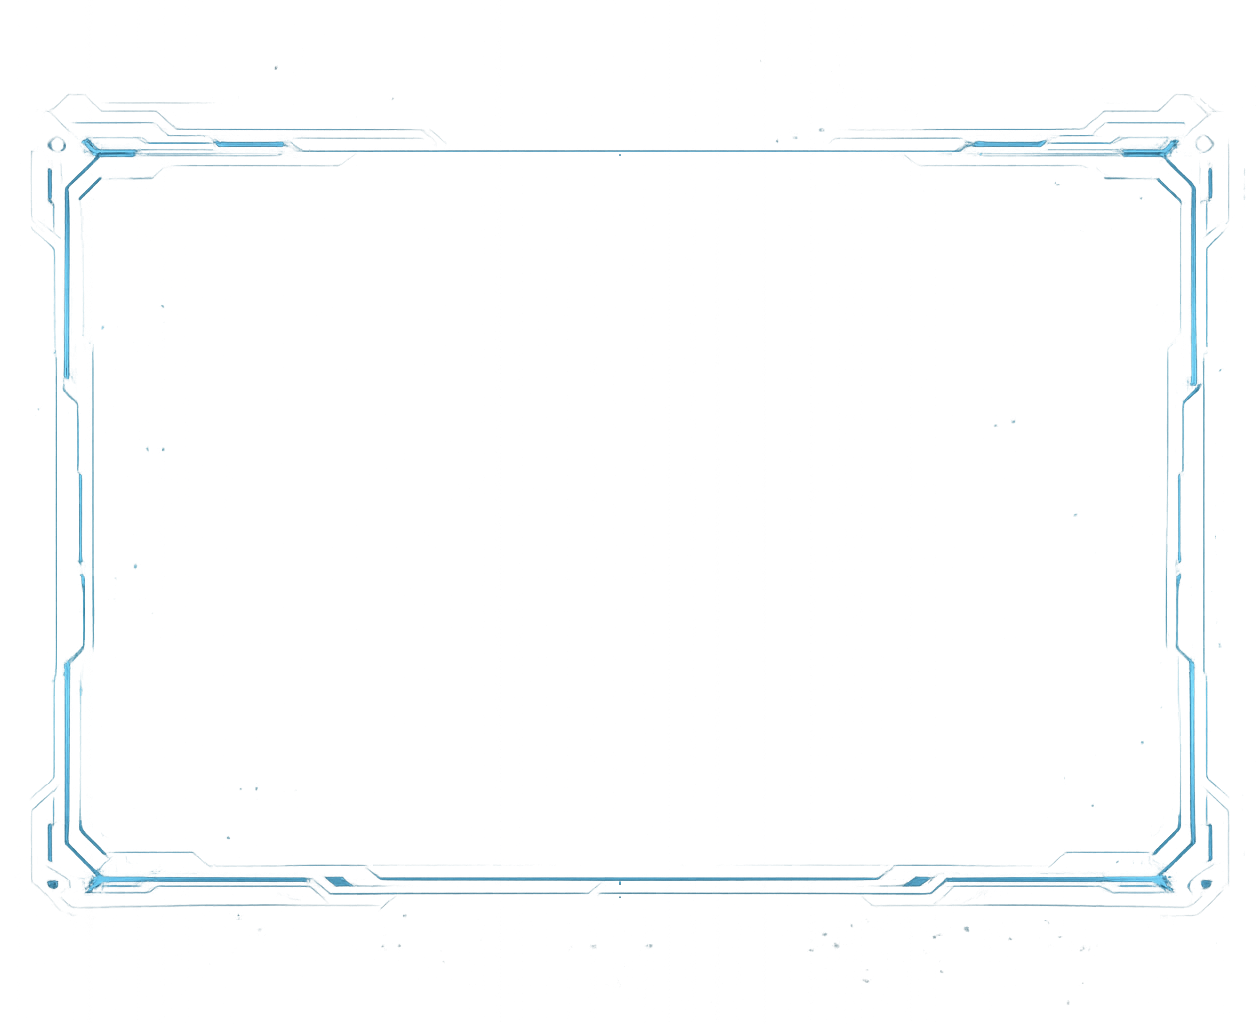
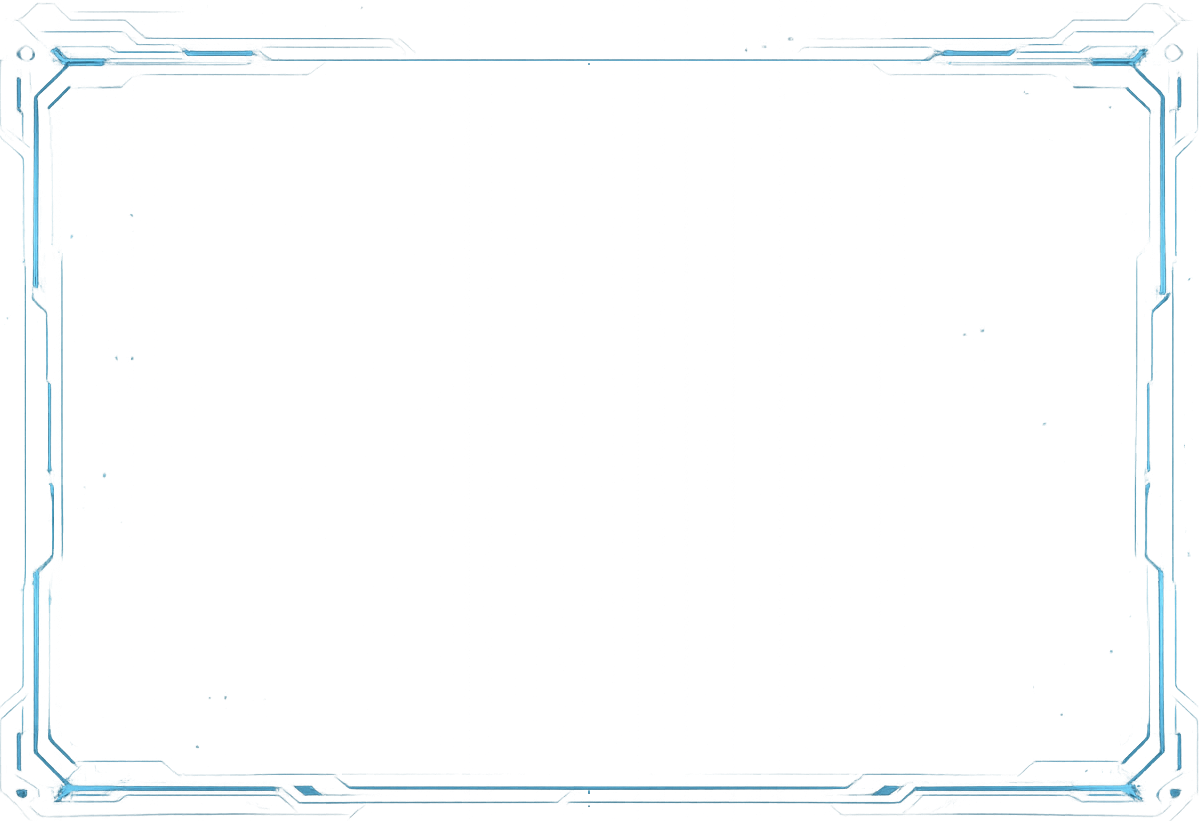
兼容性优化

Changed region(s): [[0.0, 0.0, 0.9858, 1.0]]

diff --git a/packages/client/src/index.css b/packages/client/src/index.css
@@ -175,6 +175,7 @@ body {
     max-width: 100%;
     flex: none;
     align-self: center;
+    padding: 3.5rem 3.2rem;
     background-position: center;
     background-repeat: no-repeat;
     background-size: 100% 100%;
@@ -186,15 +187,104 @@ body {
     display: none;
   }
 
+  .map-overview {
+    aspect-ratio: 16 / 9;
+  }
+
+  .view-switch-control {
+    display: flex;
+    overflow: hidden;
+    border: 1px solid rgb(103 232 249 / 0.28);
+    border-radius: 0.375rem;
+    background: rgb(2 6 23 / 0.42);
+    font-size: 0.6875rem;
+    line-height: 1rem;
+  }
+
+  .view-switch-control button {
+    padding: 0.25rem 0.5rem;
+    color: rgb(203 213 225);
+    transition:
+      background 160ms ease,
+      color 160ms ease;
+  }
+
+  .view-switch-control button + button {
+    border-left: 1px solid rgb(103 232 249 / 0.18);
+  }
+
+  .view-switch-control button:hover,
+  .view-switch-control button.is-active {
+    background: rgb(14 165 233 / 0.24);
+    color: rgb(224 242 254);
+  }
+
+  .main-camera-view > .w-full {
+    position: relative;
+    height: 100%;
+  }
+
+  .main-camera-view > .w-full > .relative {
+    height: 100%;
+    background: rgb(15 23 42 / 0.76);
+    box-shadow: none;
+  }
+
   .main-camera-view video {
-    max-height: calc(100vh - 340px);
-    min-height: 360px;
+    height: 100%;
+    min-height: 0;
+    max-height: none;
+    object-fit: contain;
+  }
+
+  .main-camera-view video.bg-black,
+  .main-camera-view .bg-black {
+    background-color: rgb(15 23 42 / 0.76);
+  }
+
+  .main-camera-view .bg-gradient-to-br {
+    background-image: none;
+    background-color: rgb(15 23 42 / 0.76);
+  }
+
+  .main-camera-view .grid.grid-cols-4 {
+    position: absolute;
+    left: 1.25rem;
+    top: 50%;
+    z-index: 20;
+    display: flex;
+    width: auto;
+    transform: translateY(-50%);
+    flex-direction: column;
+    gap: 0.5rem;
+  }
+
+  .main-camera-view .grid.grid-cols-4 button {
+    width: 2.5rem;
+    height: 2.5rem;
+    border-color: rgb(103 232 249 / 0.38);
+    background: rgb(2 6 23 / 0.58);
+    color: rgb(224 242 254);
+    box-shadow: 0 0 12px rgb(14 165 233 / 0.10);
+    backdrop-filter: blur(3px);
+  }
+
+  .main-camera-view .grid.grid-cols-4 button:hover {
+    background: rgb(14 165 233 / 0.18);
+  }
+
+  .motion-control {
+    display: flex;
+    height: 100%;
+    align-items: center;
+    justify-content: center;
   }
 
   .motion-pad {
     position: relative;
     width: 146px;
     height: 146px;
+    margin: 0 auto;
     border-radius: 9999px;
     border: 1px solid rgb(56 189 248 / 0.22);
     background:
@@ -247,21 +337,25 @@ body {
 
   .motion-pad-up {
     left: 49px;
-    top: 13px;
+    top: 5px;
   }
 
   .motion-pad-left {
-    left: 13px;
+    left: 0px;
     top: 54px;
+    flex-direction: column;
+    gap: 4px;
   }
 
   .motion-pad-right {
-    right: 13px;
+    right: 0px;
     top: 54px;
+    flex-direction: column;
+    gap: 4px;
   }
 
   .motion-pad-down {
-    bottom: 13px;
+    bottom: 5px;
     left: 49px;
   }
 

diff --git a/packages/client/src/App.tsx b/packages/client/src/App.tsx
@@ -917,13 +917,8 @@ function AppContent() {
           </aside>
 
           <main className="flex min-h-0 flex-col gap-3">
-            <div className="map-frame relative min-h-0 overflow-hidden p-6" style={{ backgroundImage: 'url(' + borderImage + ')' }}>
+            <div className="map-frame relative min-h-0 overflow-hidden" style={{ backgroundImage: 'url(' + borderImage + ')' }}>
               {showDebug && <DebugPanel />}
-              <div className="absolute right-8 top-8 z-30 flex overflow-hidden rounded-md border border-cyan-300/30 bg-slate-950/58 text-xs backdrop-blur-[3px]">
-                <button type="button" onClick={() => setMainViewport('map')} className={['px-3 py-1.5 transition', mainViewport === 'map' ? 'bg-cyan-500/24 text-cyan-100' : 'text-slate-300 hover:bg-cyan-500/12'].join(' ')}>地图</button>
-                <button type="button" onClick={() => setMainViewport('camera')} className={['border-l border-cyan-300/20 px-3 py-1.5 transition', mainViewport === 'camera' ? 'bg-cyan-500/24 text-cyan-100' : 'text-slate-300 hover:bg-cyan-500/12'].join(' ')}>摄像实况</button>
-              </div>
-
               {mainViewport === 'map' ? (
                 <div className="relative z-10 h-full overflow-hidden rounded-lg bg-slate-950/26">
                   <MapCanvas ros={ros} isConnected={isConnected} navClickMode={navClickMode} setNavClickMode={setNavClickMode} selectedMap={selectedMap} navigationTaskMode={navigationTaskMode} navigationPoints={patrolPoints} pathResetToken={navigationTasks.pathResetToken + mapSelectionResetToken} onGoalPoseSelected={(pose) => void handleSingleGoalSelected(pose)} onWaypointAdded={addPatrolPoint} />
@@ -938,7 +933,7 @@ function AppContent() {
             </div>
 
             <div className="grid h-56 grid-cols-3 gap-3">
-              <TechPanel title="移动控制"><div className="flex items-center justify-center"><div className="motion-pad"><button className="motion-pad-button motion-pad-up"><span>前进</span><b>▲</b></button><button className="motion-pad-button motion-pad-left"><b>◀</b><span>左转</span></button><button className="motion-pad-center"><span>□</span></button><button className="motion-pad-button motion-pad-right"><span>右转</span><b>▶</b></button><button className="motion-pad-button motion-pad-down"><b>▼</b><span>后退</span></button></div></div></TechPanel>
+              <TechPanel title="移动控制"><div className="motion-control"><div className="motion-pad"><button className="motion-pad-button motion-pad-up"><span>前进</span><b>▲</b></button><button className="motion-pad-button motion-pad-left"><b>◀</b><span>左转</span></button><button className="motion-pad-center"><span>▣</span></button><button className="motion-pad-button motion-pad-right"><b>▶</b><span>右转</span></button><button className="motion-pad-button motion-pad-down"><b>▼</b><span>后退</span></button></div></div></TechPanel>
               <TechPanel title="姿态控制"><div className="grid grid-cols-3 gap-3">{['X+', 'Y+', 'Yaw+', 'X-', 'Y-', 'Yaw-'].map((label) => (<button key={label} className="h-14 rounded-md border border-cyan-400/25 bg-slate-950/70 text-sm font-semibold text-yellow-300 hover:bg-cyan-500/10">{label}</button>))}</div></TechPanel>
               <TechPanel title="语音广播"><div className="space-y-3"><div className="rounded-md border border-cyan-400/20 bg-slate-950/65 px-3 py-2 text-sm text-slate-500">在此输入广播内容...</div><div className="broadcast-waveform flex h-10 items-center gap-1">{Array.from({ length: 44 }).map((_, index) => (<span key={index} className="rounded-full bg-cyan-400" style={{ height: 6 + ((index * 11 + index * index) % 30) + 'px', opacity: 0.55 + ((index % 5) * 0.09) }} />))}</div><div className="grid grid-cols-2 gap-3"><button className="inline-flex items-center justify-center gap-2 rounded-md border border-cyan-400/45 bg-cyan-500/20 px-3 py-2 text-sm text-cyan-100"><Mic className="h-4 w-4" />开始广播</button><button className="inline-flex items-center justify-center gap-2 rounded-md border border-red-400/50 bg-red-500/20 px-3 py-2 text-sm text-red-100"><Square className="h-4 w-4" />停止广播</button></div></div></TechPanel>
             </div>
@@ -947,7 +942,12 @@ function AppContent() {
           <aside className="flex min-h-0 flex-col gap-3 overflow-y-auto pl-1">
             <TechPanel
               title={mainViewport === 'map' ? '摄像机视角' : '地图概况'}
-              action={<span className="rounded bg-blue-500/80 px-2 py-0.5 text-xs text-white">{mainViewport === 'map' ? 'LIVE' : 'MAP'}</span>}
+              action={(
+                <div className="view-switch-control">
+                  <button type="button" onClick={() => setMainViewport('map')} className={mainViewport === 'map' ? 'is-active' : ''}>地图</button>
+                  <button type="button" onClick={() => setMainViewport('camera')} className={mainViewport === 'camera' ? 'is-active' : ''}>摄像实况</button>
+                </div>
+              )}
               className="media-panel"
             >
               {mainViewport === 'map' ? (
@@ -955,7 +955,6 @@ function AppContent() {
               ) : (
                 <div className="map-overview relative aspect-video overflow-hidden rounded-xl border border-cyan-400/20 bg-slate-950/50">
                   <MapCanvas ros={ros} isConnected={isConnected} navClickMode="none" selectedMap={selectedMap} navigationTaskMode={navigationTaskMode} navigationPoints={patrolPoints} pathResetToken={navigationTasks.pathResetToken + mapSelectionResetToken} />
-                  <button type="button" onClick={() => setMainViewport('map')} className="absolute bottom-3 right-3 z-20 rounded-md border border-cyan-400/35 bg-slate-950/70 px-3 py-1.5 text-xs text-cyan-100 backdrop-blur-[3px] hover:bg-cyan-500/24">查看地图</button>
                 </div>
               )}
             </TechPanel>